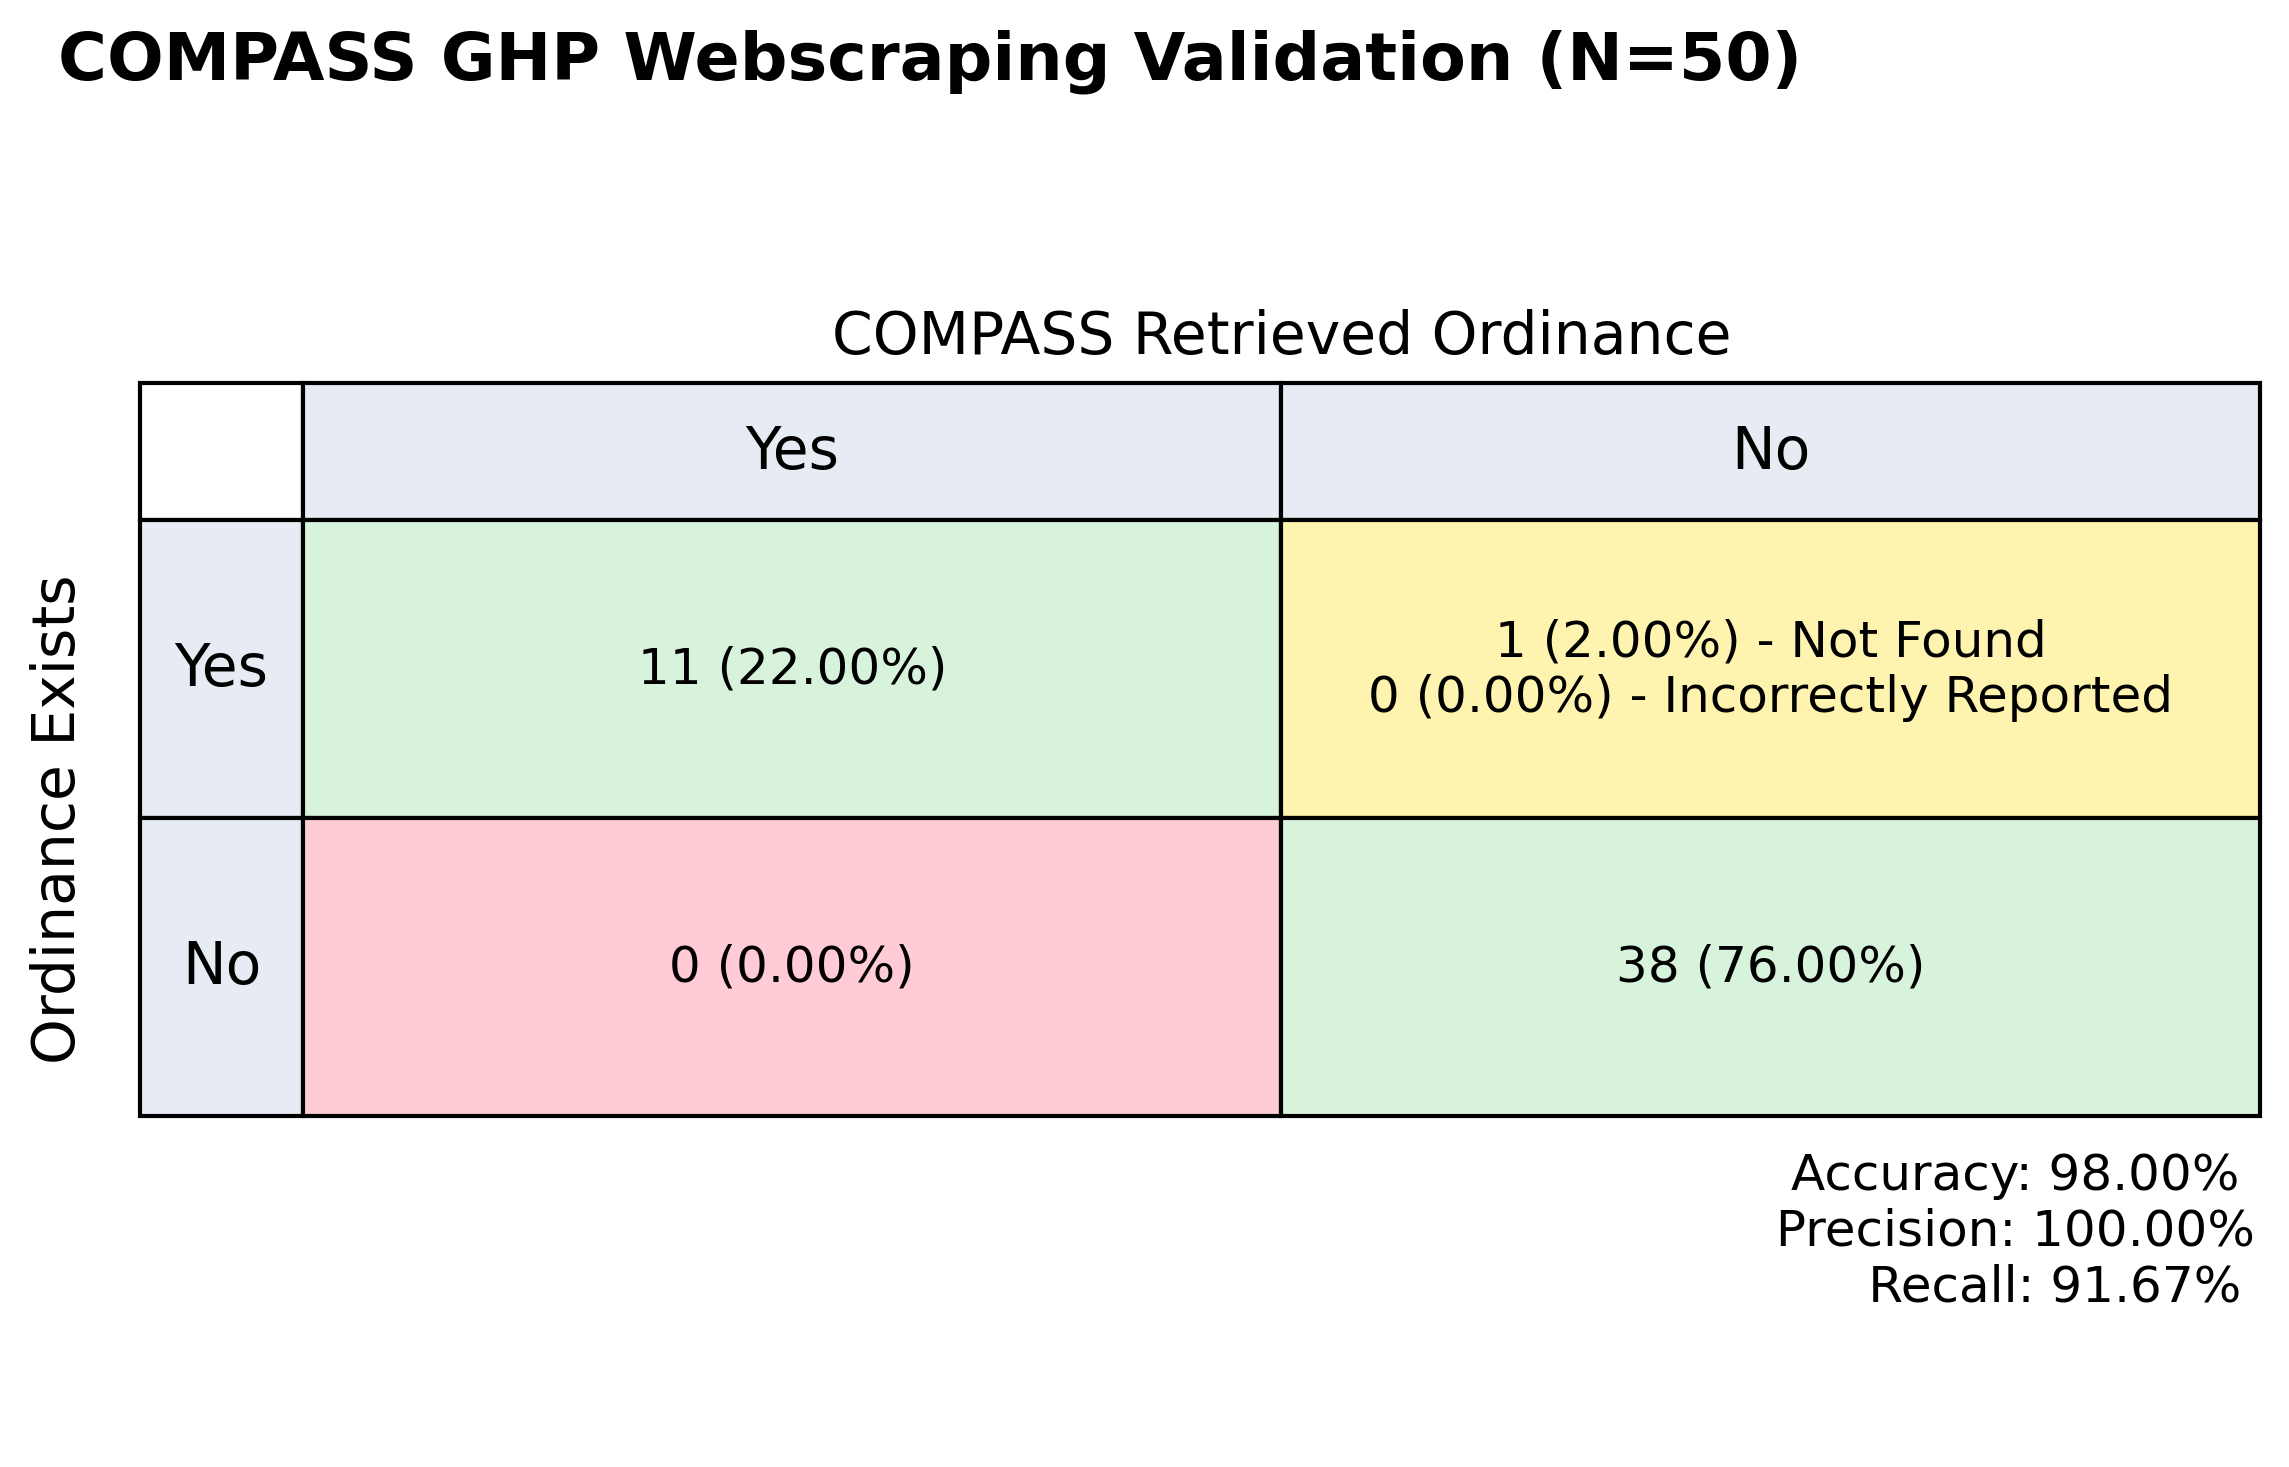
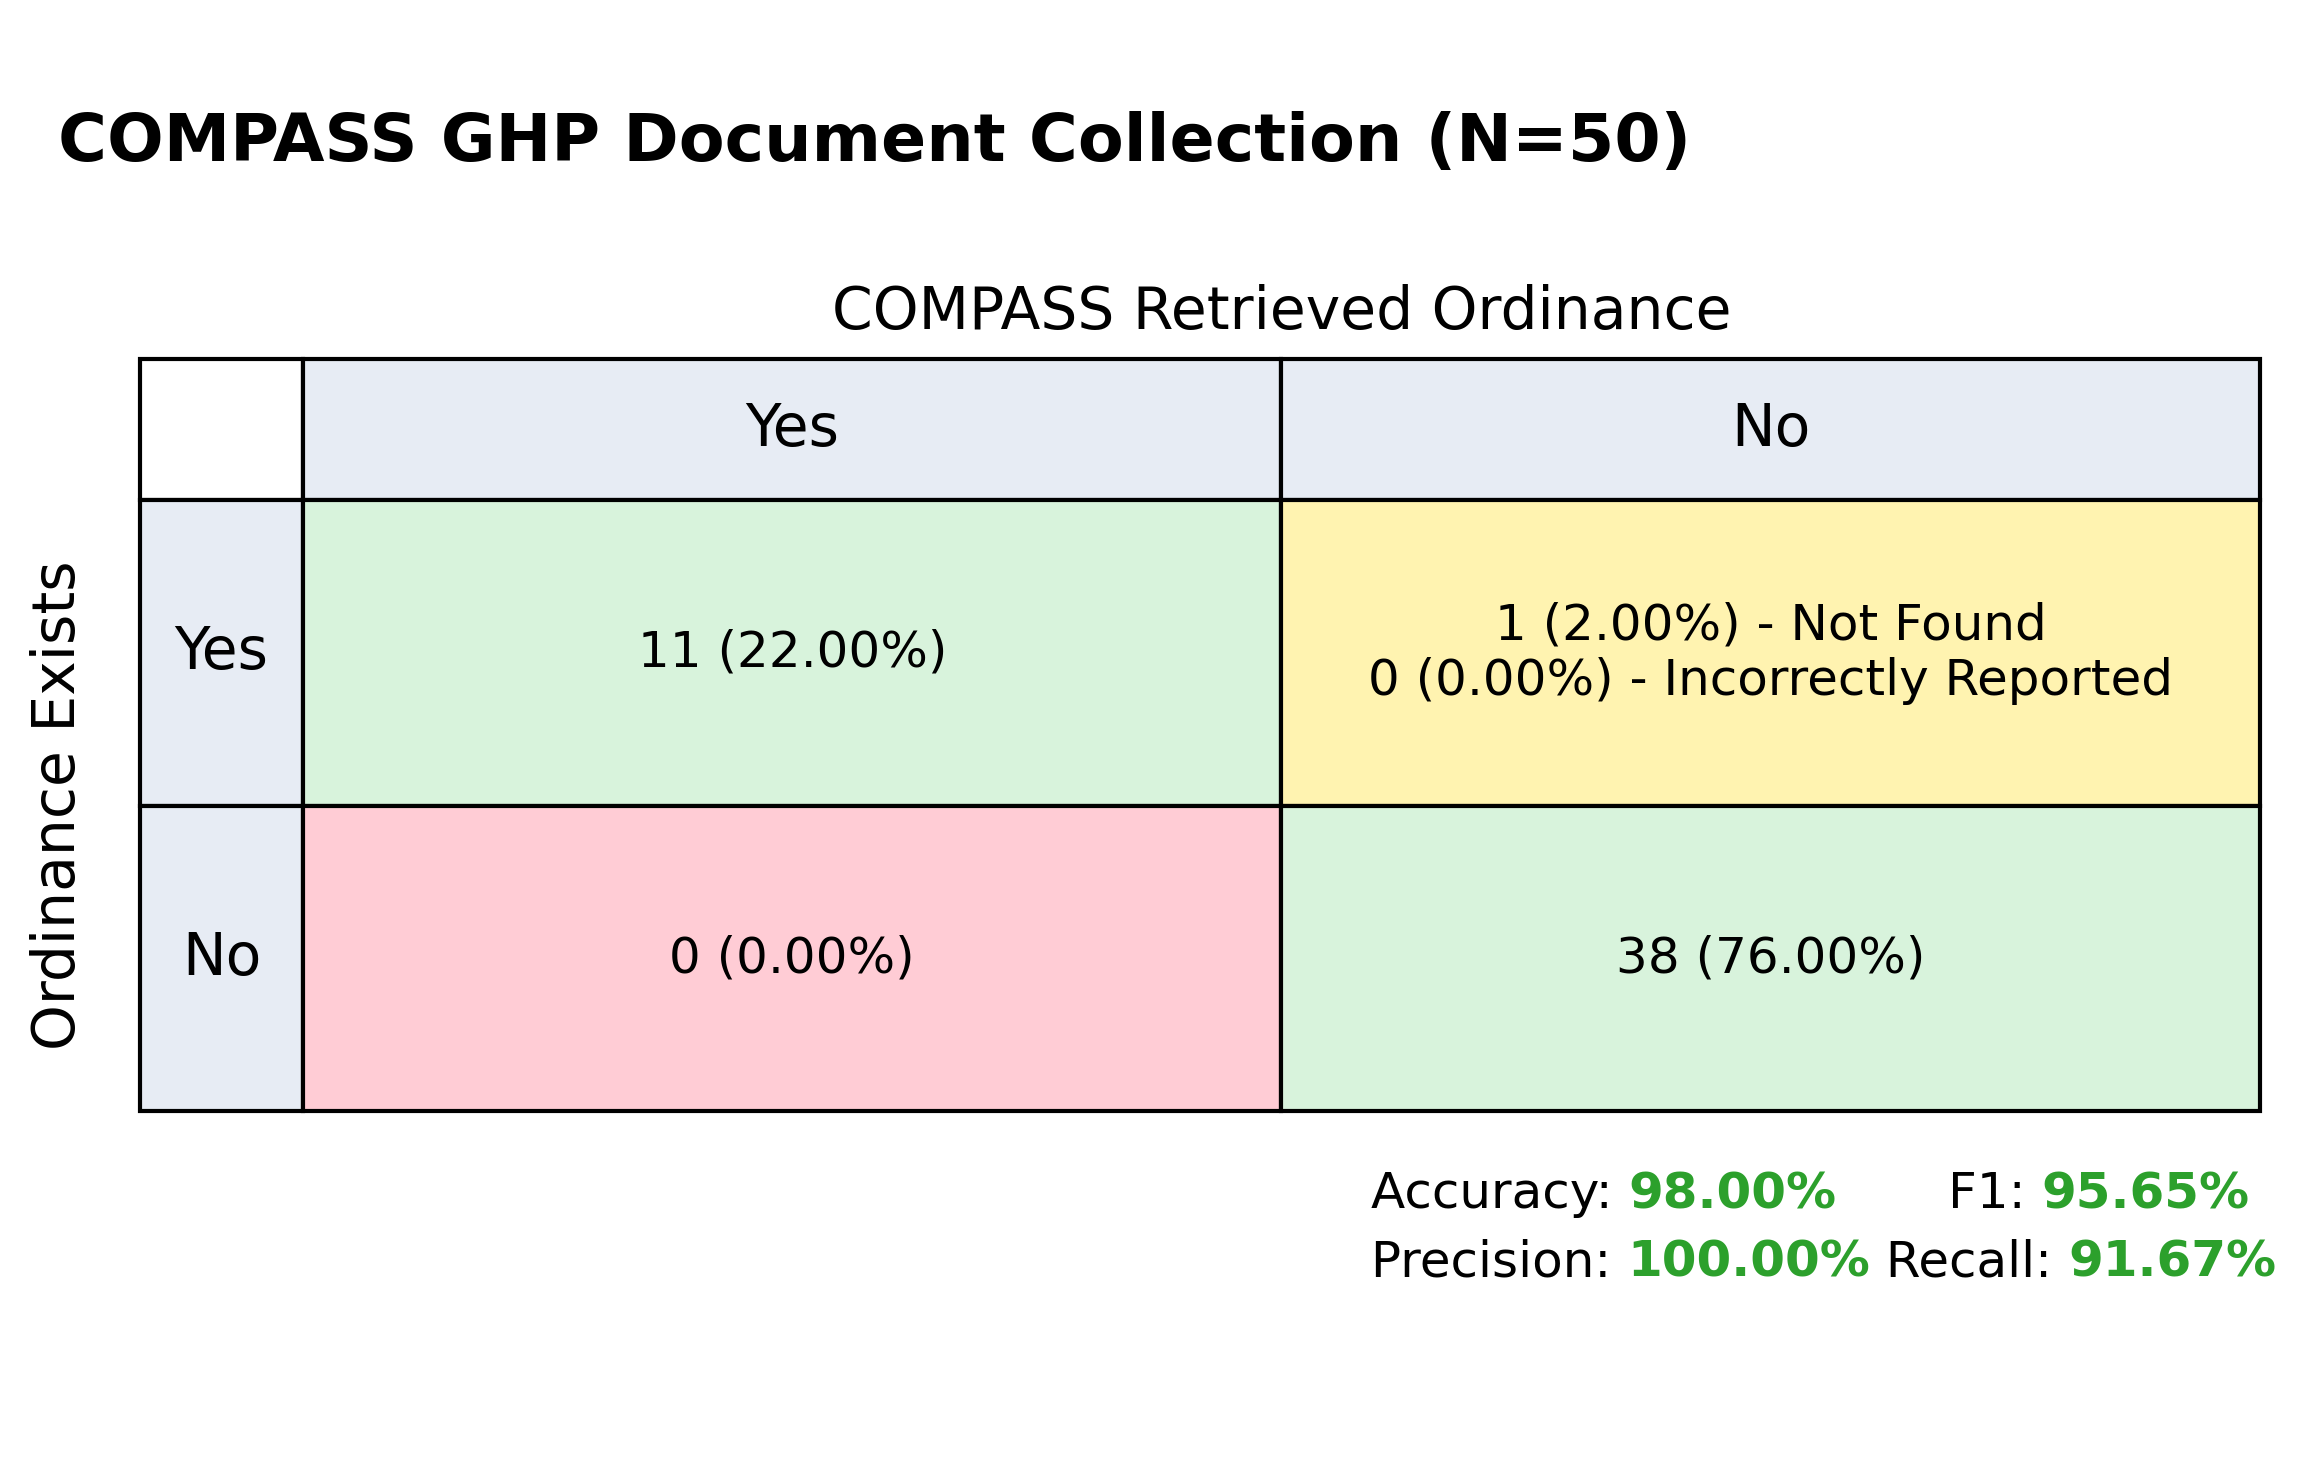
Update plots

diff --git a/docs/source/val/validation.rst b/docs/source/val/validation.rst
@@ -61,6 +61,67 @@ Results
 .. image:: transmission_validation_aug_2026.png
 
 
+Transmission Line Validation (June 2026)
+------------------------------------------
+
+This validation was for the ordinance value extraction portion only (assume documents are correct and belong
+to the correct jurisdiction).
+
+This validation focused on the model ability to extract structured ordinance data from unstructured wind ordinance text documents.
+
+
+Info
+^^^^
+
+- **COMPASS Version**: `v0.22.0 <https://github.com/NatLabRockies/COMPASS/releases/tag/v0.28.0>`_
+- **Number of Documents**: 15 (Assuming 40,000 jurisdictions with 10% population proportion, there is a 95% chance that the metrics are within ±15.18% of the reported value)
+- **Features**:
+
+  - driveways
+  - property lines
+  - yards
+  - private water
+  - public water
+  - building foundation
+  - wastewater
+  - water line
+  - sewer line
+  - animal enclosures
+  - roads
+  - row
+  - above ground fuel
+  - below ground fuel
+  - subsurface drains
+  - wetlands
+  - pools
+  - hmat
+  - noise
+  - minimum well depth
+  - maximum well depth
+  - well definition
+  - geothermal definition
+  - ghp definition
+  - licensed driller
+  - certification
+  - screening
+  - permit
+  - inspection
+  - decommissioning
+  - prohibitions cl
+  - prohibitions ol
+  - prohibitions other
+  - ordinance effective year
+
+
+- **Procedure Validated**: Ordinance extraction from documents
+- **LLM(s) used**: OpenAI GPT-4.1-mini, OpenAI GPT-5-mini, OpenAI GPT-5.4
+
+Results
+^^^^^^^
+
+.. image:: geothermal_heat_pump_validation_june_2026.png
+
+
 
 Geothermal Heat Pump Document Collection Validation (June 2026)
 ---------------------------------------------------------------
